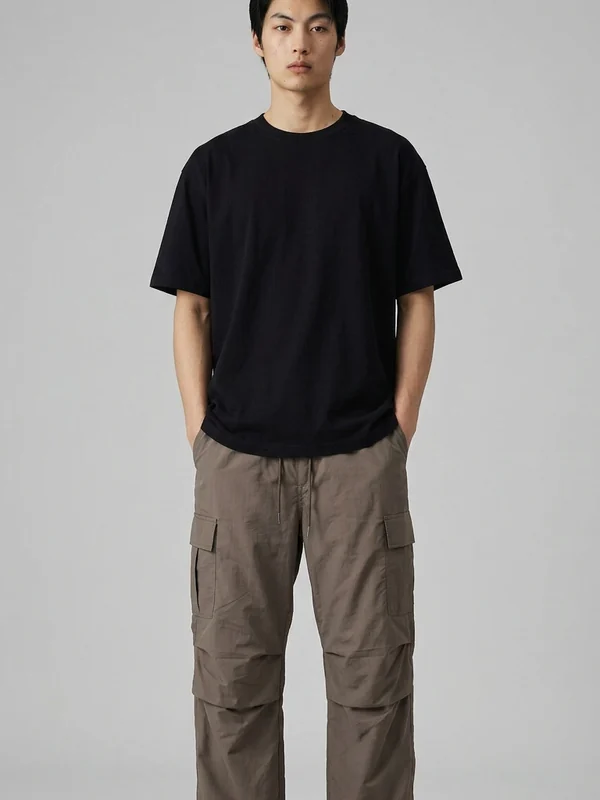
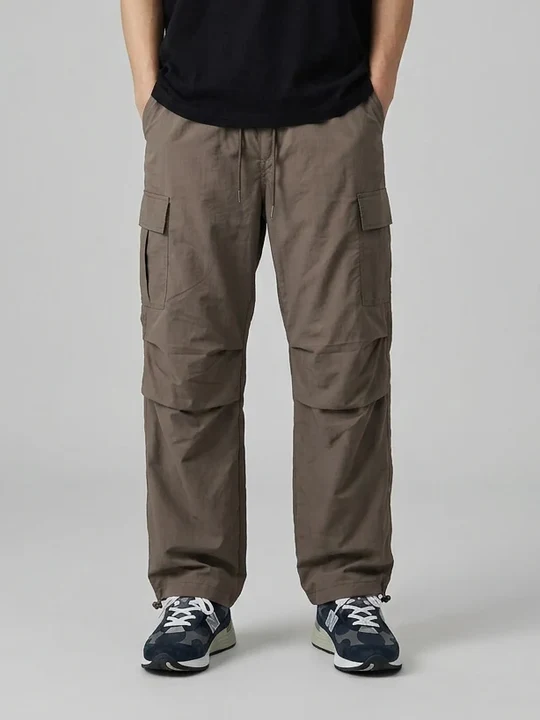
파라슈트 팬츠 썸네일을 허리~신발 하반신 중심으로 다시 자름
Claude-Session: https://claude.ai/code/session_01KQMEfT2ai38yMadH4zStAs

diff --git a/js/ai_works.js b/js/ai_works.js
@@ -659,7 +659,7 @@ window.AI_WORKS = [
     product: '파라슈트 팬츠',
     title: '파라슈트 팬츠 Light Gray',
     thumb: 'img/ai/parachute/lightgray-thumb.webp',
-    thumbPos: '50% 30%',
+    thumbPos: '50% 50%',
     models: [
       'img/ai/parachute/lightgray-1.webp',
       'img/ai/parachute/lightgray-2.webp',
@@ -680,7 +680,7 @@ window.AI_WORKS = [
     product: '파라슈트 팬츠',
     title: '파라슈트 팬츠 Brown',
     thumb: 'img/ai/parachute/brown-thumb.webp',
-    thumbPos: '50% 30%',
+    thumbPos: '50% 50%',
     models: [
       'img/ai/parachute/brown-1.webp',
       'img/ai/parachute/brown-2.webp',
@@ -697,7 +697,7 @@ window.AI_WORKS = [
     product: '파라슈트 팬츠',
     title: '파라슈트 팬츠 Charcoal',
     thumb: 'img/ai/parachute/charcoal-thumb.webp',
-    thumbPos: '50% 30%',
+    thumbPos: '50% 50%',
     models: [
       'img/ai/parachute/charcoal-1.webp',
       'img/ai/parachute/charcoal-2.webp',
